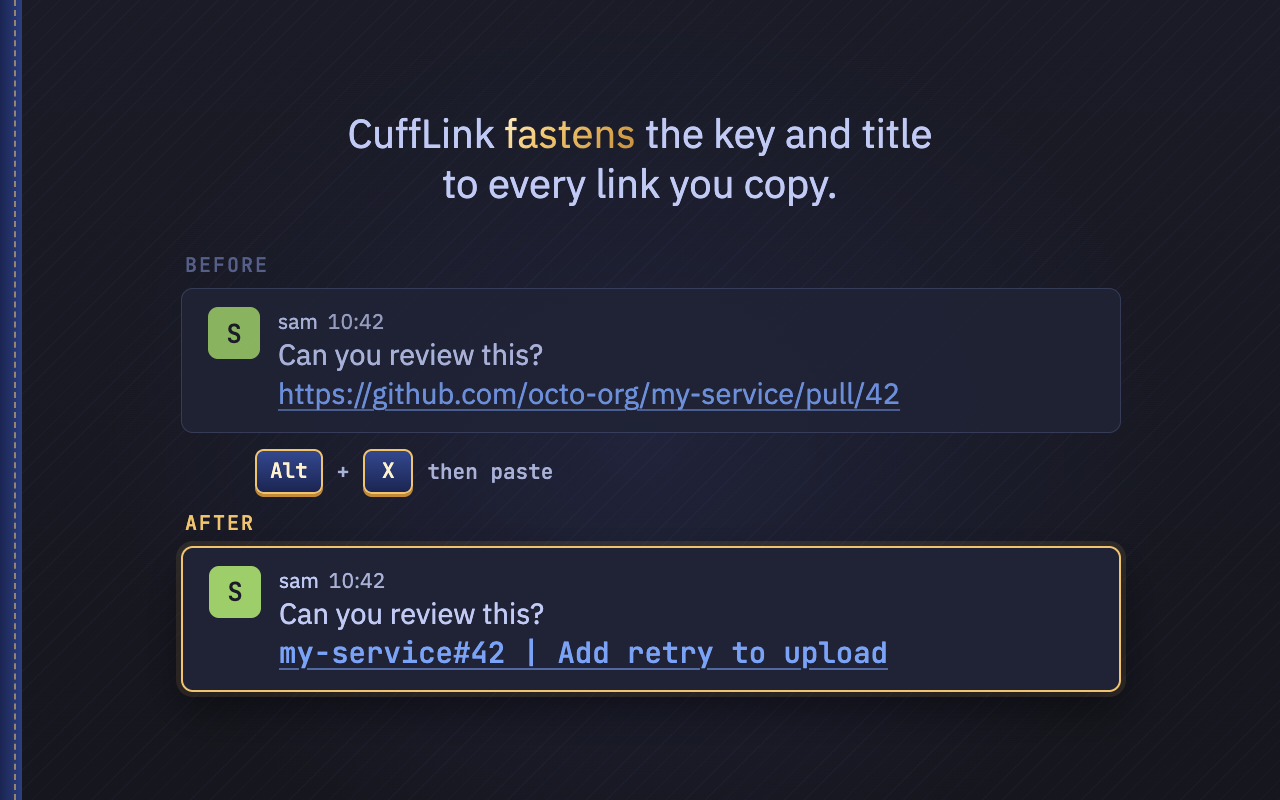
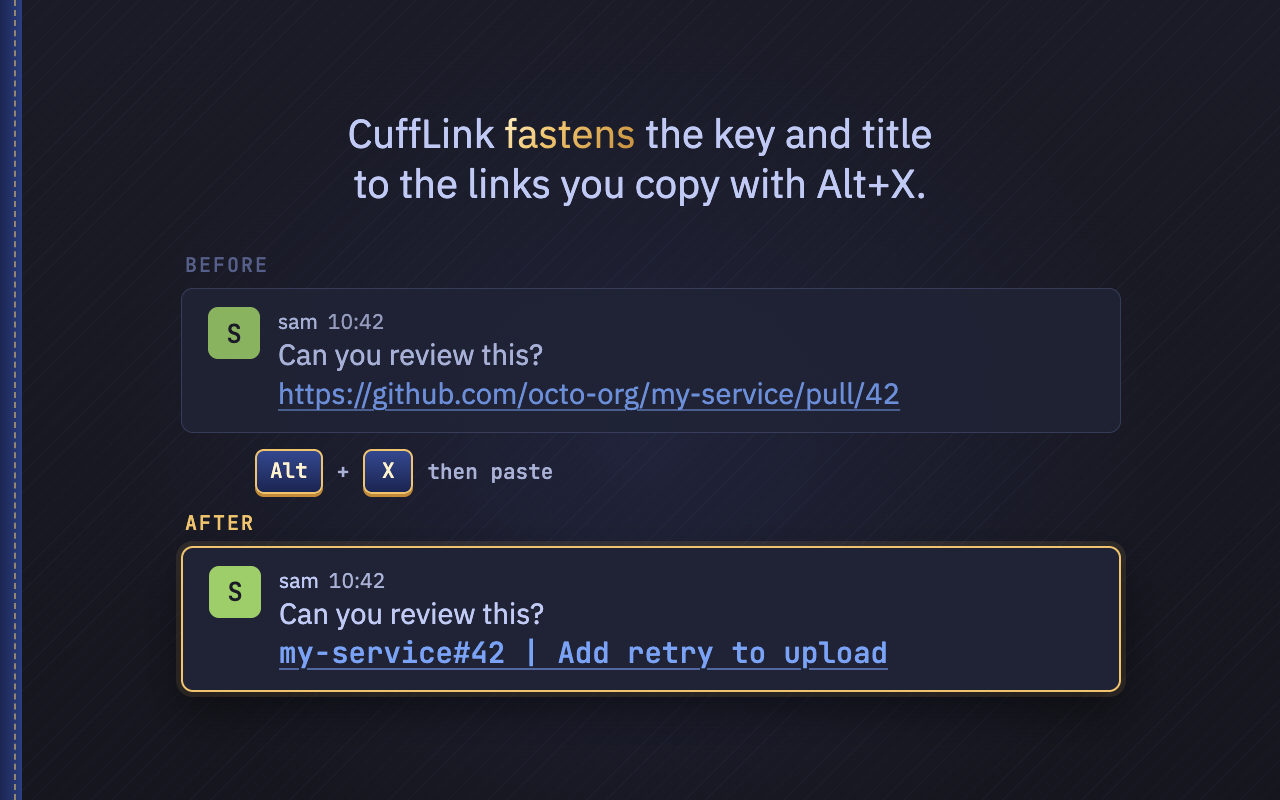
docs(readme): say the key and title come with an Alt+X copy, not every copy

Changed region(s): [[0.2812, 0.2188, 0.7188, 0.25]]

diff --git a/docs/images/src/hero.html b/docs/images/src/hero.html
@@ -199,7 +199,9 @@
   </head>
   <body>
     <div class="seam"></div>
-    <p class="caption">CuffLink <b>fastens</b> the key and title<br />to every link you copy.</p>
+    <p class="caption">
+      CuffLink <b>fastens</b> the key and title<br />to the links you copy with Alt+X.
+    </p>
     <div class="chat">
       <div class="before">
         <div class="kicker">Before</div>

diff --git a/README.md b/README.md
@@ -6,7 +6,7 @@
 
 <p align="center"><strong>Off-the-cuff sharing, buttoned-up links.</strong></p>
 
-<p align="center">CuffLink fastens the key and title to every Jira, GitHub and GitLab link you copy, so the link says what it is before anyone clicks.</p>
+<p align="center">CuffLink fastens the key and title to the Jira, GitHub and GitLab links you copy with Alt+X, so the link says what it is before anyone clicks.</p>
 
 <p align="center">
   <a href="LICENSE"><img src="https://img.shields.io/badge/license-MIT-blue.svg" alt="License: MIT"></a>
